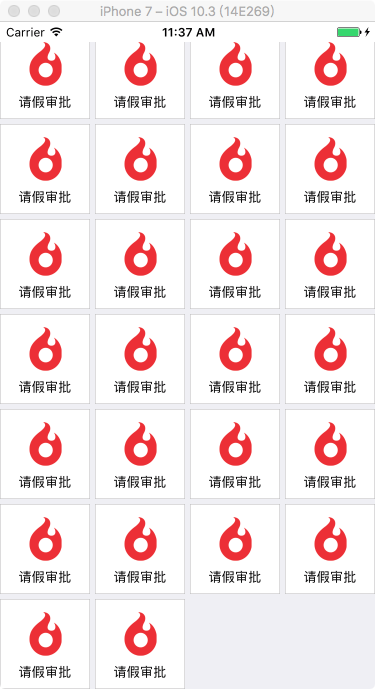
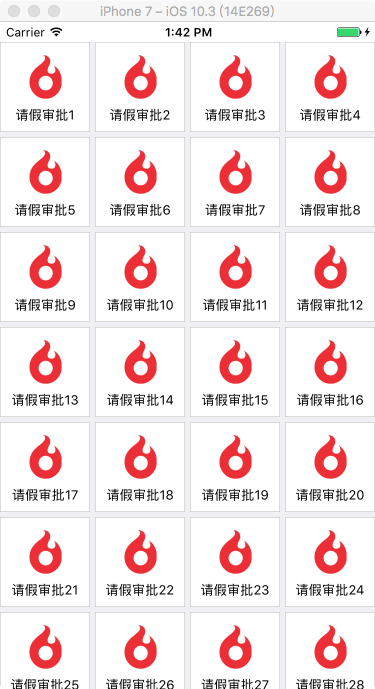
更新

diff --git a/UICollectionView拖动排序/ViewController.m b/UICollectionView拖动排序/ViewController.m
@@ -32,11 +32,8 @@
     
     //产生随机颜色的方块
     for (int i = 1; i <= ITEM_NUMBER; i++) {
-        CGFloat hue = ( arc4random() % 256 / 256.0 );
-        CGFloat saturation = ( arc4random() % 128 / 256.0 ) + 0.5;
-        CGFloat brightness = ( arc4random() % 128 / 256.0 ) + 0.5;
-        UIColor *color = [UIColor colorWithHue:hue saturation:saturation brightness:brightness alpha:0.8];
-        [_dataArray addObject:color];
+        NSString *str = [NSString stringWithFormat:@"%d", i];
+        [_dataArray addObject:str];
     }
 }
 
@@ -73,9 +70,8 @@
 #pragma mark - ---------- Cell的内容 ----------
 - (UICollectionViewCell *)collectionView:(UICollectionView *)collectionView cellForItemAtIndexPath:(NSIndexPath *)indexPath{
     ymCollectionViewCell *cell=[collectionView dequeueReusableCellWithReuseIdentifier:@"ymCollectionViewCell" forIndexPath:indexPath];
-    cell.contentLabel.text = @"请假审批";
+    cell.contentLabel.text = [NSString stringWithFormat:@"请假审批%@", _dataArray[indexPath.row]];
     cell.imageView.image = [UIImage imageNamed:@"proper_logo"];
-//    cell.backgroundColor = _dataArray[indexPath.item];
     return cell;
 }
 
@@ -91,12 +87,11 @@
 
 #pragma mark - ---------- 更新数据源 ----------
 - (void)collectionView:(UICollectionView *)collectionView moveItemAtIndexPath:(NSIndexPath *)sourceIndexPath toIndexPath:(NSIndexPath*)destinationIndexPath {
-    //取出源item数据 更新
-    id objc = [_dataArray objectAtIndex:sourceIndexPath.item];
-    //从资源数组中移除该数据
-    [_dataArray removeObject:objc];
-    //将数据插入到资源数组中的目标位置上
-    [_dataArray insertObject:objc atIndex:destinationIndexPath.item];
+
+    //移除数据插入到新的位置
+    [_dataArray removeObject:[_dataArray objectAtIndex:sourceIndexPath.item]];
+    [_dataArray insertObject:[_dataArray objectAtIndex:sourceIndexPath.item]
+                     atIndex:destinationIndexPath.item];
 }
 
 #pragma mark - ---------- 拖动手势 ----------
